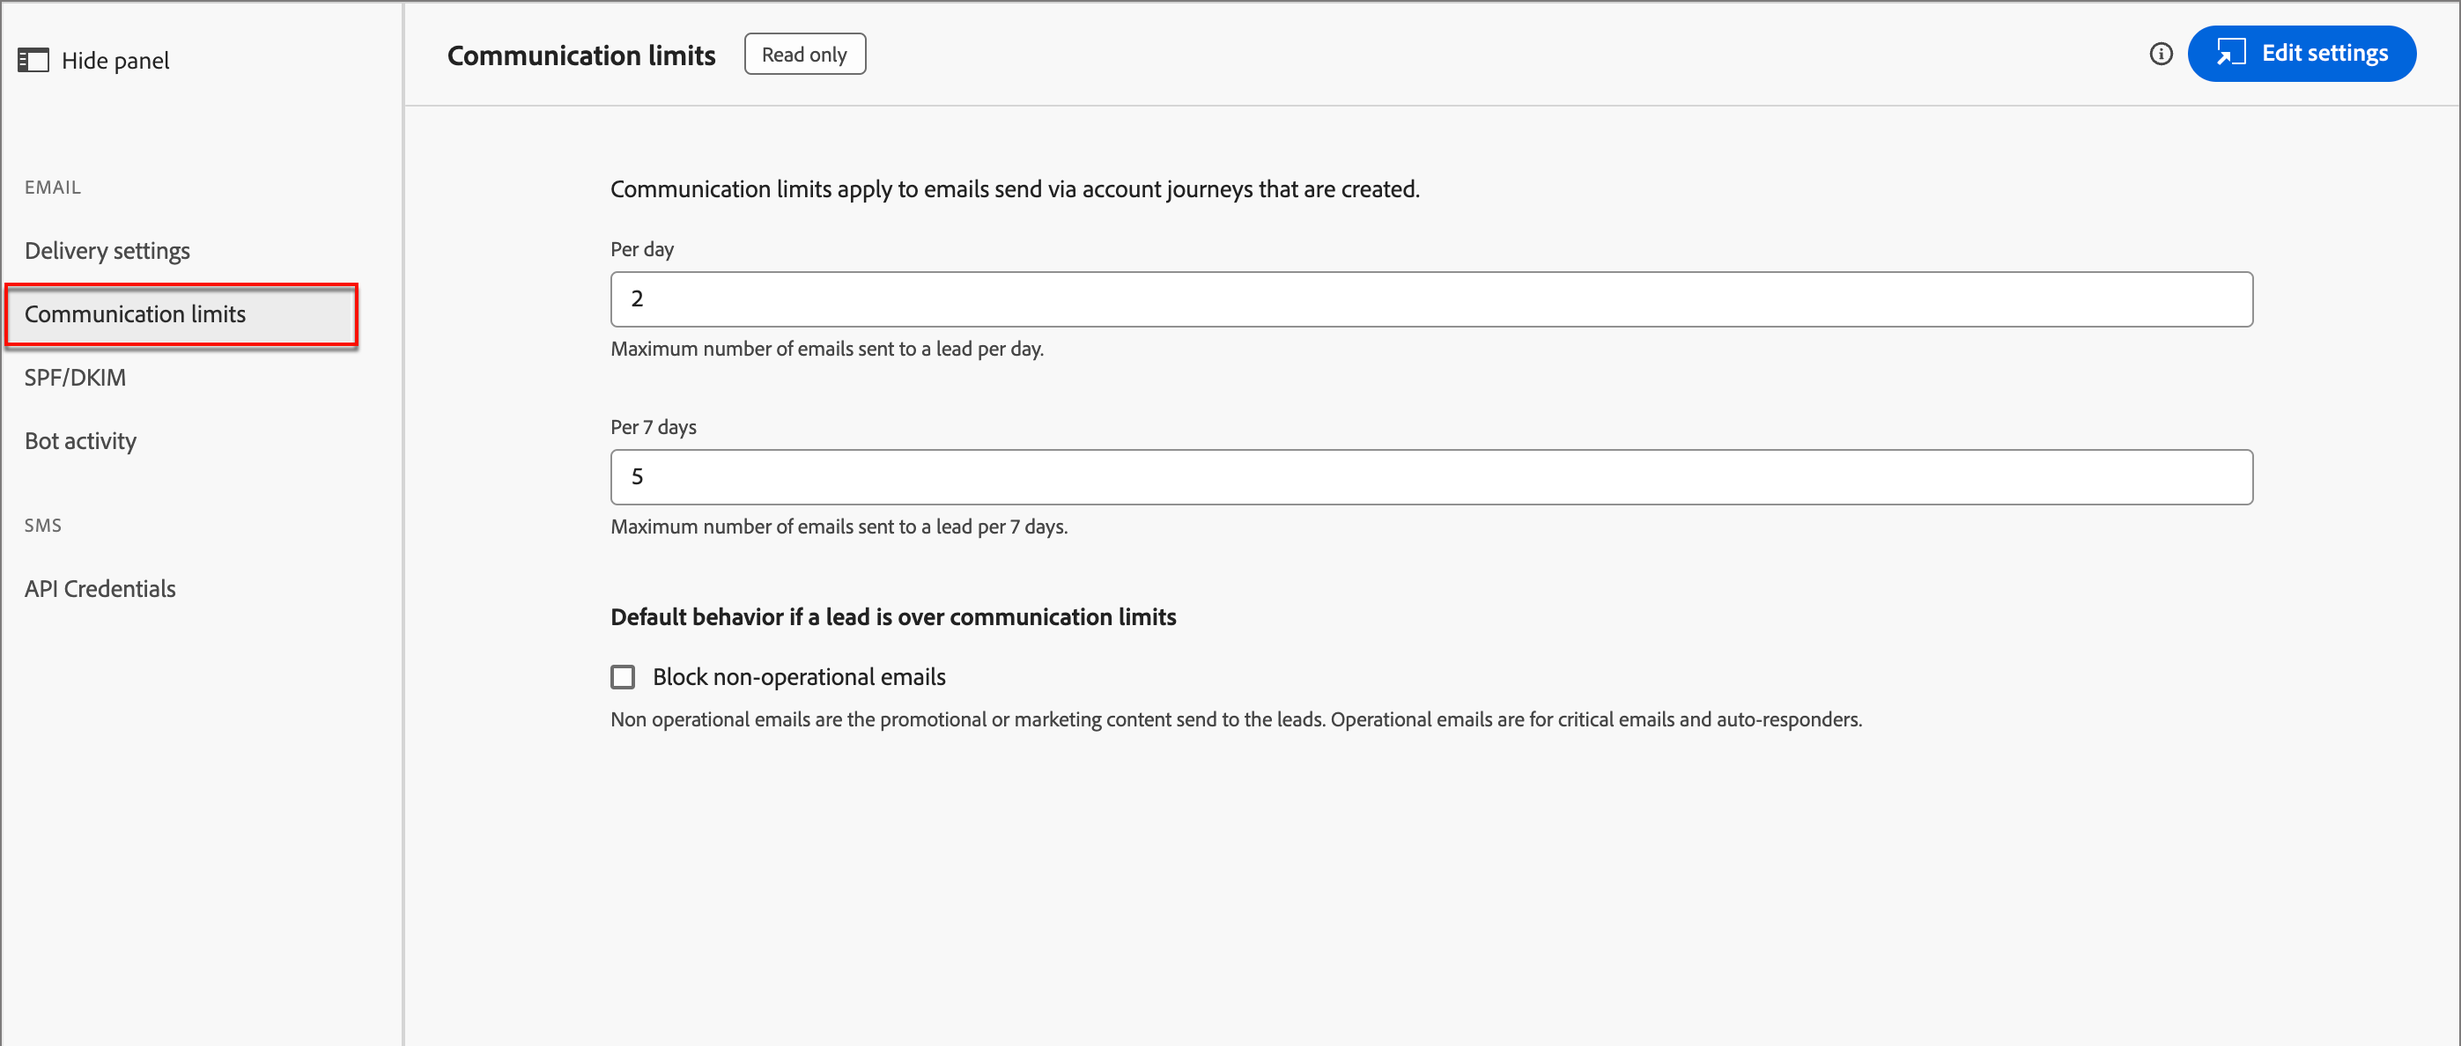
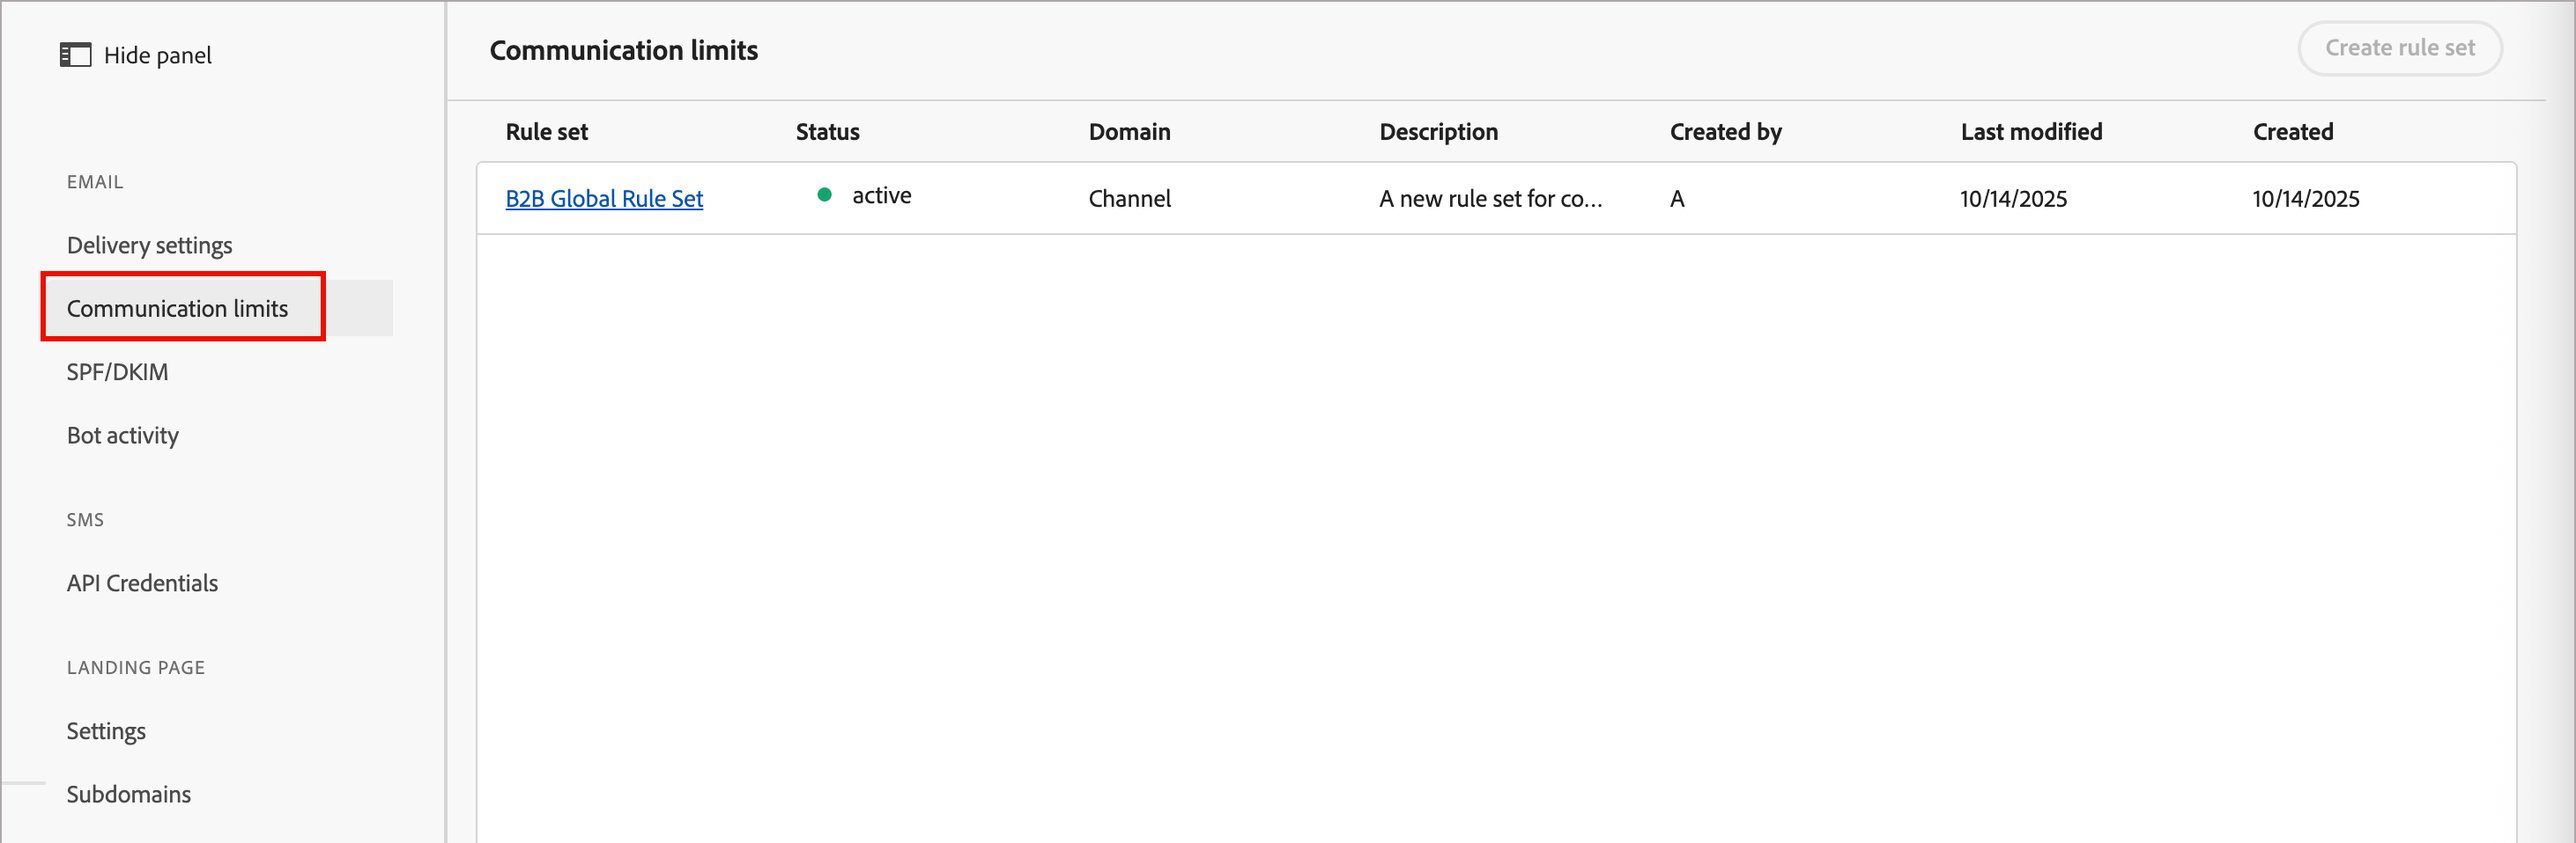
SPHR-20620, shared emeil communication limits

diff --git a/help/user/admin/configure-channels-emails.md b/help/user/admin/configure-channels-emails.md
@@ -61,19 +61,63 @@ When _[!UICONTROL Strict Transport Security]_ is enabled, it guarantees that tra
 
 ## Communication limits
 
-Communication limits control the amount of email your organization sends. It is a best practice to set limits so that you don't overwhelm recipients with too many emails from your organization.
+Communication limits control the number of emails that a contact receives from your organization. The limits that you set are shared between Journey Optimizer B2B Edition and the connected Marketo Engage instance. Setting these limits ensures that one lead does not receive more than a maximum number of emails over a given period of time.
 
-To review the current settings, go to **[!UICONTROL Administration]** > **[!UICONTROL Channels]**. Under _[!UICONTROL Email]_ in the navigation panel, select **[!UICONTROL Communication limits]**.
+For example, with a defined limit of five emails per day, the system ensures that one contact does not receive a sixth email within a day by suppressing the sixth email. With shared communication limits between Journey Optimizer B2B Edition and Marketo Engage, the communication limit rules are defined in one location. The sixth email is suppressed, regardless of the send action coming from Journey Optimizer B2B Edition or Marketo Engage.
 
-![Access the communication limits settings](./assets/config-email-communication-limits.png){width="700" zoomable="yes"}
+All Marketo Engage production instances have defined communication limits defined by default (see the [Marketo Engage documentation](https://experienceleague.adobe.com/en/docs/marketo/using/product-docs/administration/email-setup/enable-communication-limits){target="_blank"} for more information). To use shared communication limits, you define the rules in Journey Optimizer B2B Edition and extend the sharing of these limits to the Marketo Munchkin codes.
 
-Click **[!UICONTROL Edit settings]** at the top right to access the configuration options in the connected Marketo Engage instance. 
-
->[!NOTE]
+>[!IMPORTANT]
 >
->To access and edit these settings in Adobe Marketo Engage, you must have Product Administrator permissions.
+>To extend the communication rule set to the Marketo Munchkin codes, reach out to your Adobe account management team. This configuration is typically part of the onboarding process.
 
-For more information about configuring the communication limits, refer to the [Marketo Engage documentation](https://experienceleague.adobe.com/en/docs/marketo/using/product-docs/administration/email-setup/enable-communication-limits){target="_blank"}.
+To review or set the communication limit rules, go to **[!UICONTROL Administration]** > **[!UICONTROL Channels]**. Under _[!UICONTROL Email]_ in the navigation panel, and select **[!UICONTROL Communication limits]**.
+
+![Access the communication limits configuration](./assets/config-email-communication-limits.png){width="700" zoomable="yes"}
+
+By default, there is a global rule set where you can define, activate, and deactivate multiple rules according to your requirements. Click the rule set name to display the rules list.
+
+### Create a rule
+
+1. Click **[!UICONTROL Create rule]** at the top right.
+
+   ![Access the communication limits configuration](./assets/config-email-communication-limits-create-rule-select.png){width="600" zoomable="yes"}
+
+1. Enter the **[!UICONTROL Rule name]**.
+
+1. Set the **[!UICONTROL Capping amount]**.
+
+   Enter the value, or click the _Up_ or _Down_ arrow at the right to increase or decreate the value.
+
+1. Choose the **[!UICONTROL Reset capping frequency]** value according to how you want to define the time period for the limit.
+
+   You can choose _[!UICONTROL Hourly]_, _[!UICONTROL Daily]_, _[!UICONTROL Weekly]_, or _[!UICONTROL Monthly]_.
+
+   ![Access the communication limits configuration](./assets/config-email-communication-limits-create-rule-settings.png){width="600" zoomable="yes"}
+
+1. Set the **[!UICONTROL Every]** value according to how many frequency units to include in the period.
+
+   For example, if you use _Daily_ as the frequency and you set this value to `3`, the period is defined as three days.
+
+1. Click **[!UICONTROL Create rule]** at the top right.
+
+The new rule is in the _Draft_ state and is not applied to the communication limits until you choose to activate it.
+
+### Manage rules
+
+As long as a rule is in the _Draft_ state, you can edit the definition or delete the rule. When you want the rule to be applied, you can activate it. Click the _More menu_ (***...***) icon next to the draft rule name in the list and choose **[!UICONTROL Activate]**.
+
+![Click the More menu for a draft communication limits rule](./assets/config-email-communication-limits-draft-more-menu.png){width="400" zoomable="yes"}
+
+Then, click **[!UICONTROL Activate]** in the confirmation dialog.
+
+An active rule cannot be edited or deleted, it can only be deactivated. For an active rule that you want to remove from the applied communication limits, click the _Deactivate_ ( ![Deactivate icon](../assets/do-not-localize/icon-deactivate.svg) ) icon next to the active rule name. 
+
+![Click the Deactivate icon for an active communication limits rule](./assets/config-email-communication-limits-active-deactivate.png){width="400" zoomable="yes"}
+
+Then, click **[!UICONTROL Deactivate]** in the confirmation dialog.
+
+The rule is displayed with an _Inactive_ status. It is similar to a draft rule, and you can edit, delete, or activate it when needed.
 
 ## SPF/DKIM
 
